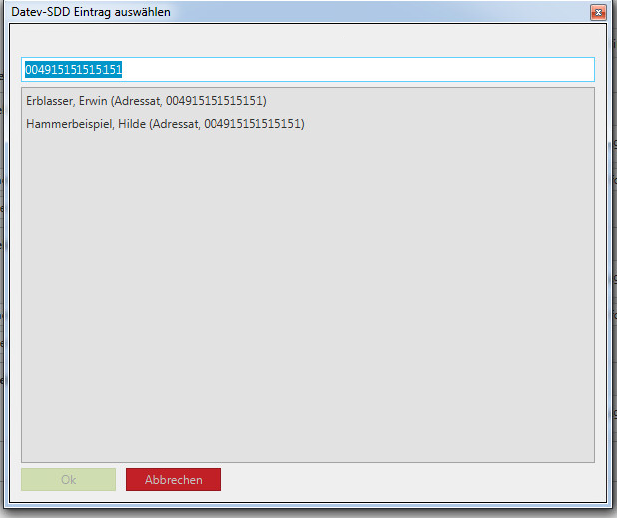
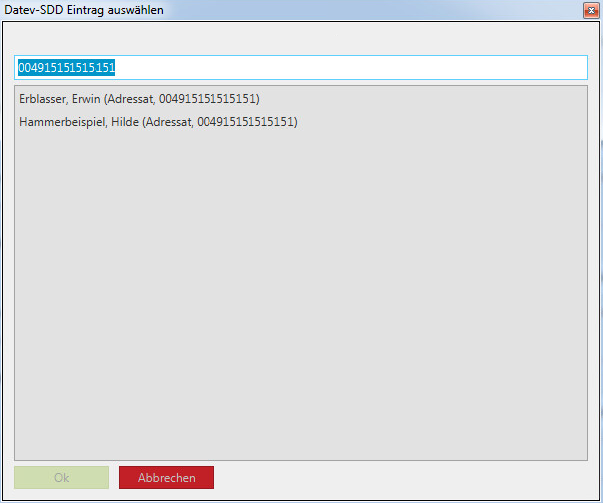
fix doku

Changed region(s): [[0.0, 0.0, 1.0, 1.0]]

diff --git a/mobydick/content_de/10integration/03datev.md b/mobydick/content_de/10integration/03datev.md
@@ -10,12 +10,12 @@ prev: /integrationen/wombatdialer/
 url: /integrationen/datev-telefonie-integration/
 weight: 103
 toc: true
-draft: true
+draft: false
 ---
 
 ## Konzept
 
-Die DATEV-Schnittstelle ermöglicht es aus Ihrer *DATEV *
+Die DATEV-Schnittstelle ermöglicht es aus Ihrer *DATEV*
 
 Die DATEV-Schnittstelle ermöglicht es bei einem eingehenden Anruf die Anrufdaten in Ihre *DATEV Arbeitsplatz pro*-Software zu übertragen.
 
@@ -26,6 +26,20 @@ Die DATEV-Schnittstelle ist automatisch aktiv sobald Sie neben *DATEV Arbeitspla
 ## Bedienung
 
 ### Eingehender Anruf
+
+Bei einem eingehenen Anruf werden die DATEV-Stammdaten abgefragt und Treffer in der Anruf-Notification angezeigt.
+
+![DATEV Notification](/datev_notification.PNG)
+
+Schon während des Läutens ist es möglich über den DATEV-Klick die Telefonie-Daten in die Telefonliste Ihres *DATEV Arbeitsplatz pro* zu übertragen.
+
+Nach einem Anruf ist es können die Daten über den DATEV-Klick aus dem Journal zu übertragen werden.
+
+![DATEV Journal](/datev_journal.PNG)
+
+Sollten zu einer Telefonnummer mehrere Einträge in den DATEV-Stammdaten zu finden sein, erscheint eine Liste mit den möglichen Treffern und Sie können den richtigen Kontakt für die Datenübertragung auswählen.
+
+![DATEV Eintrag auswählen](/datev_eintrag_auswaehlen.PNG)
 
 
 ### Ausgehender Anruf
